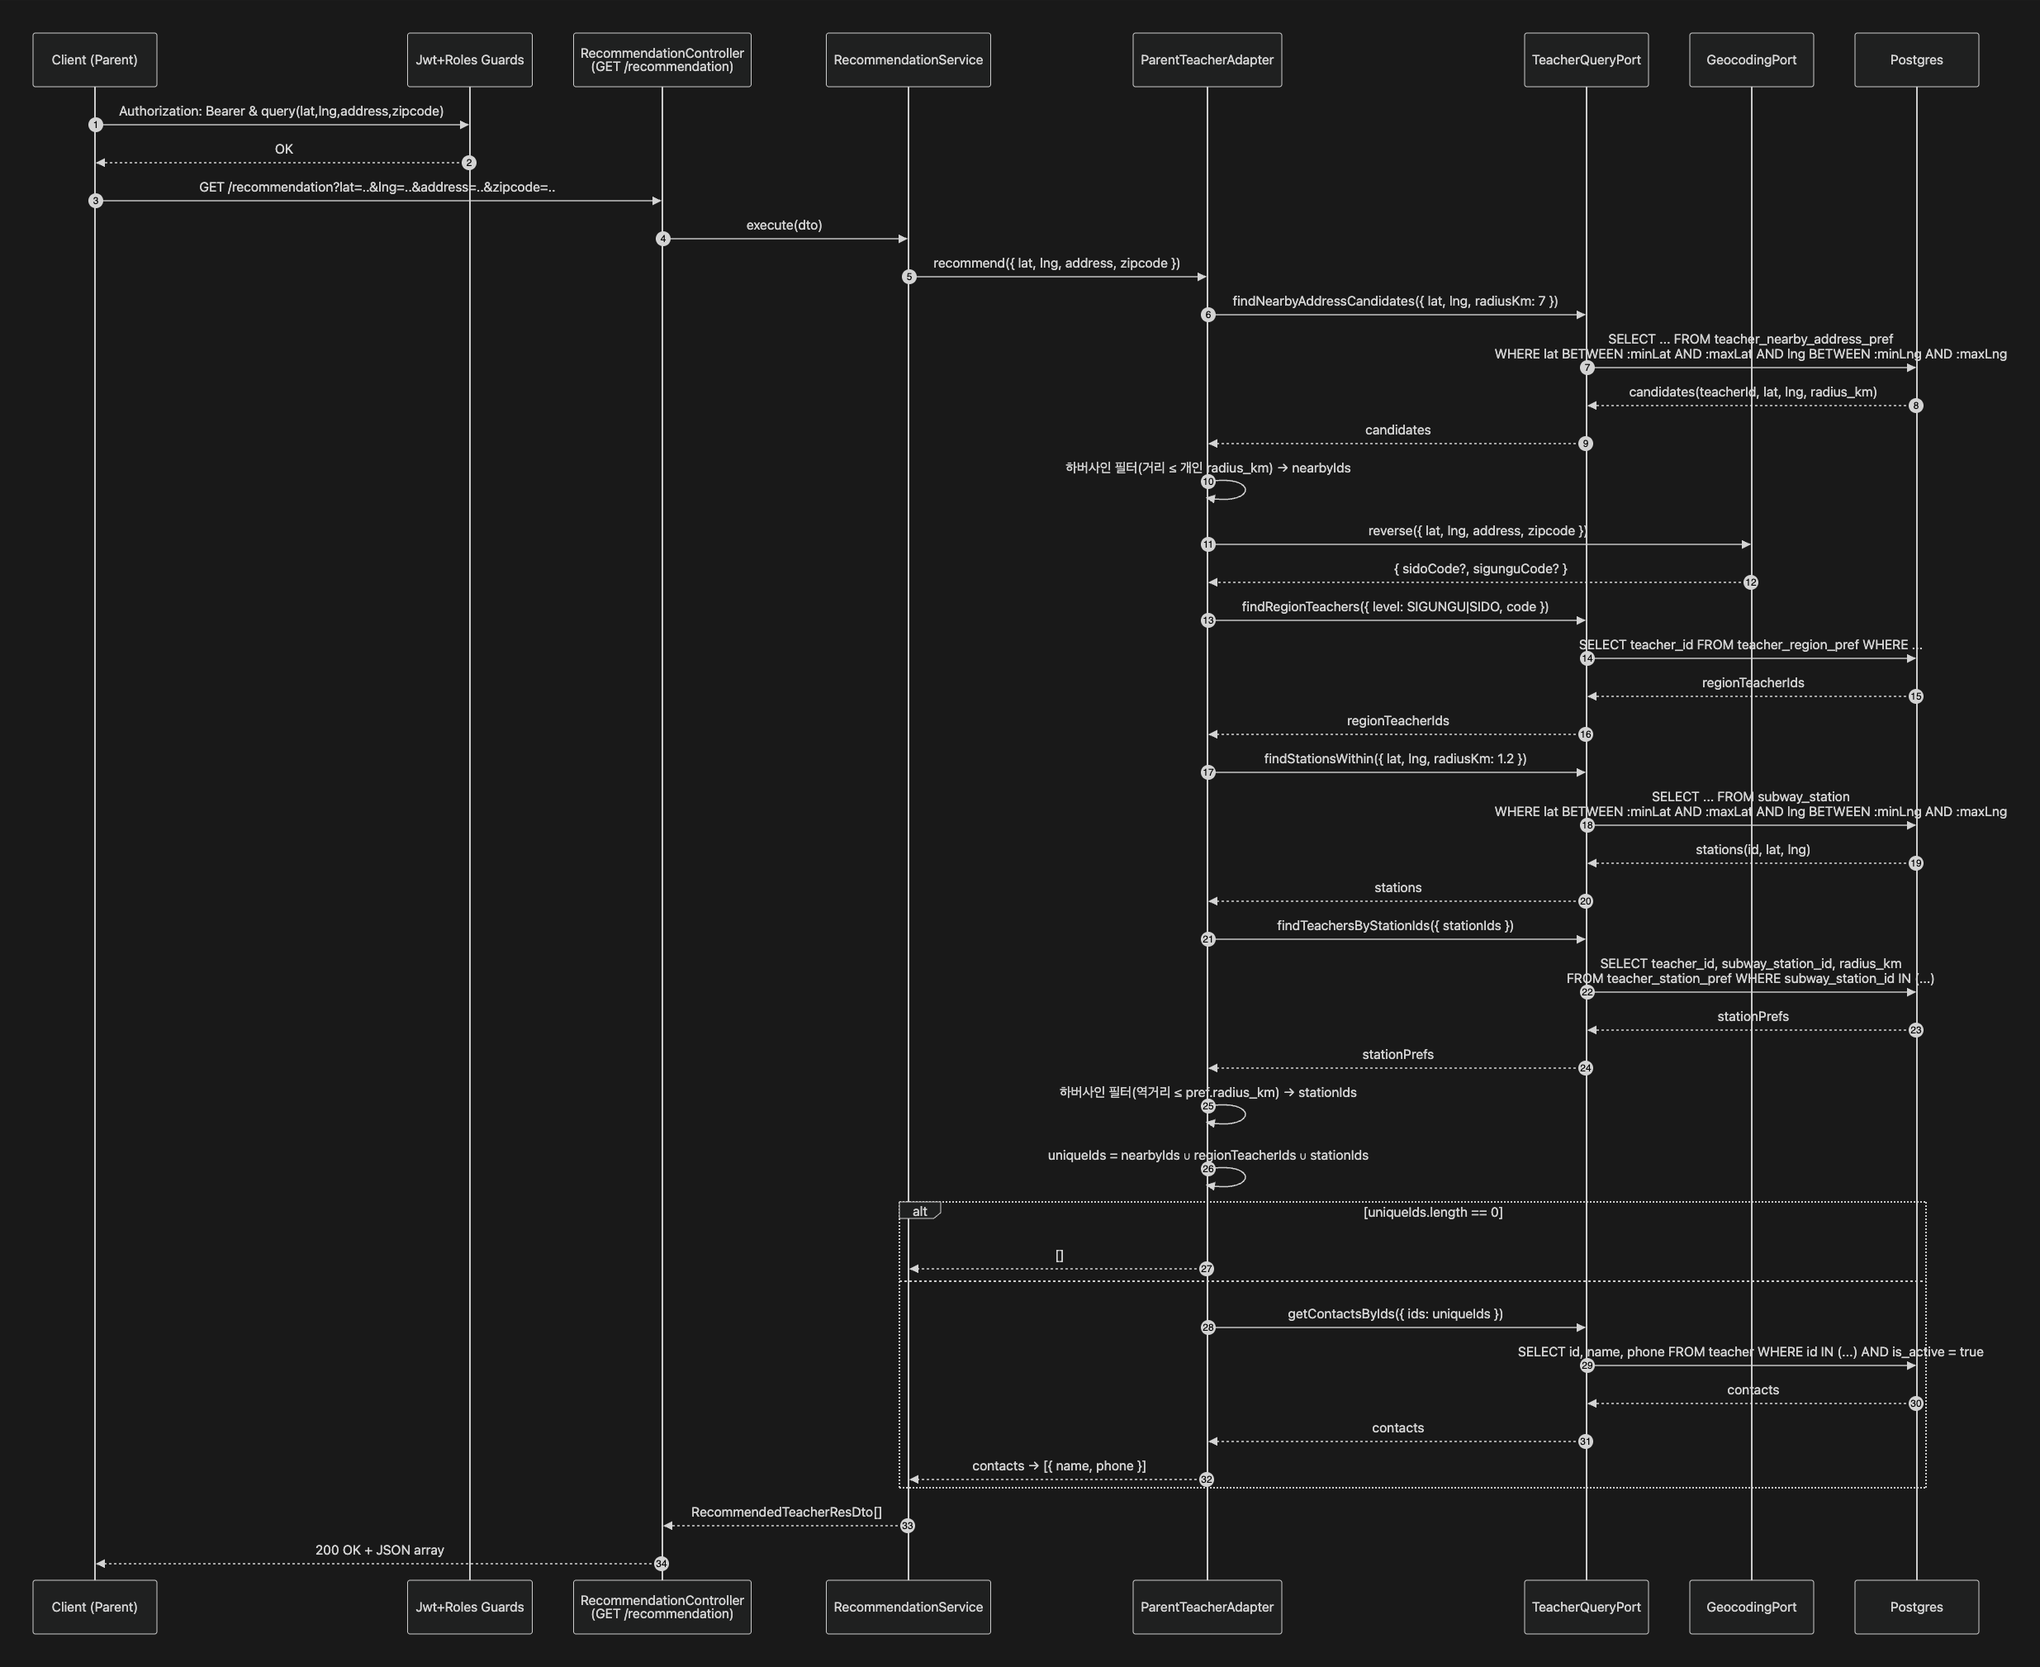
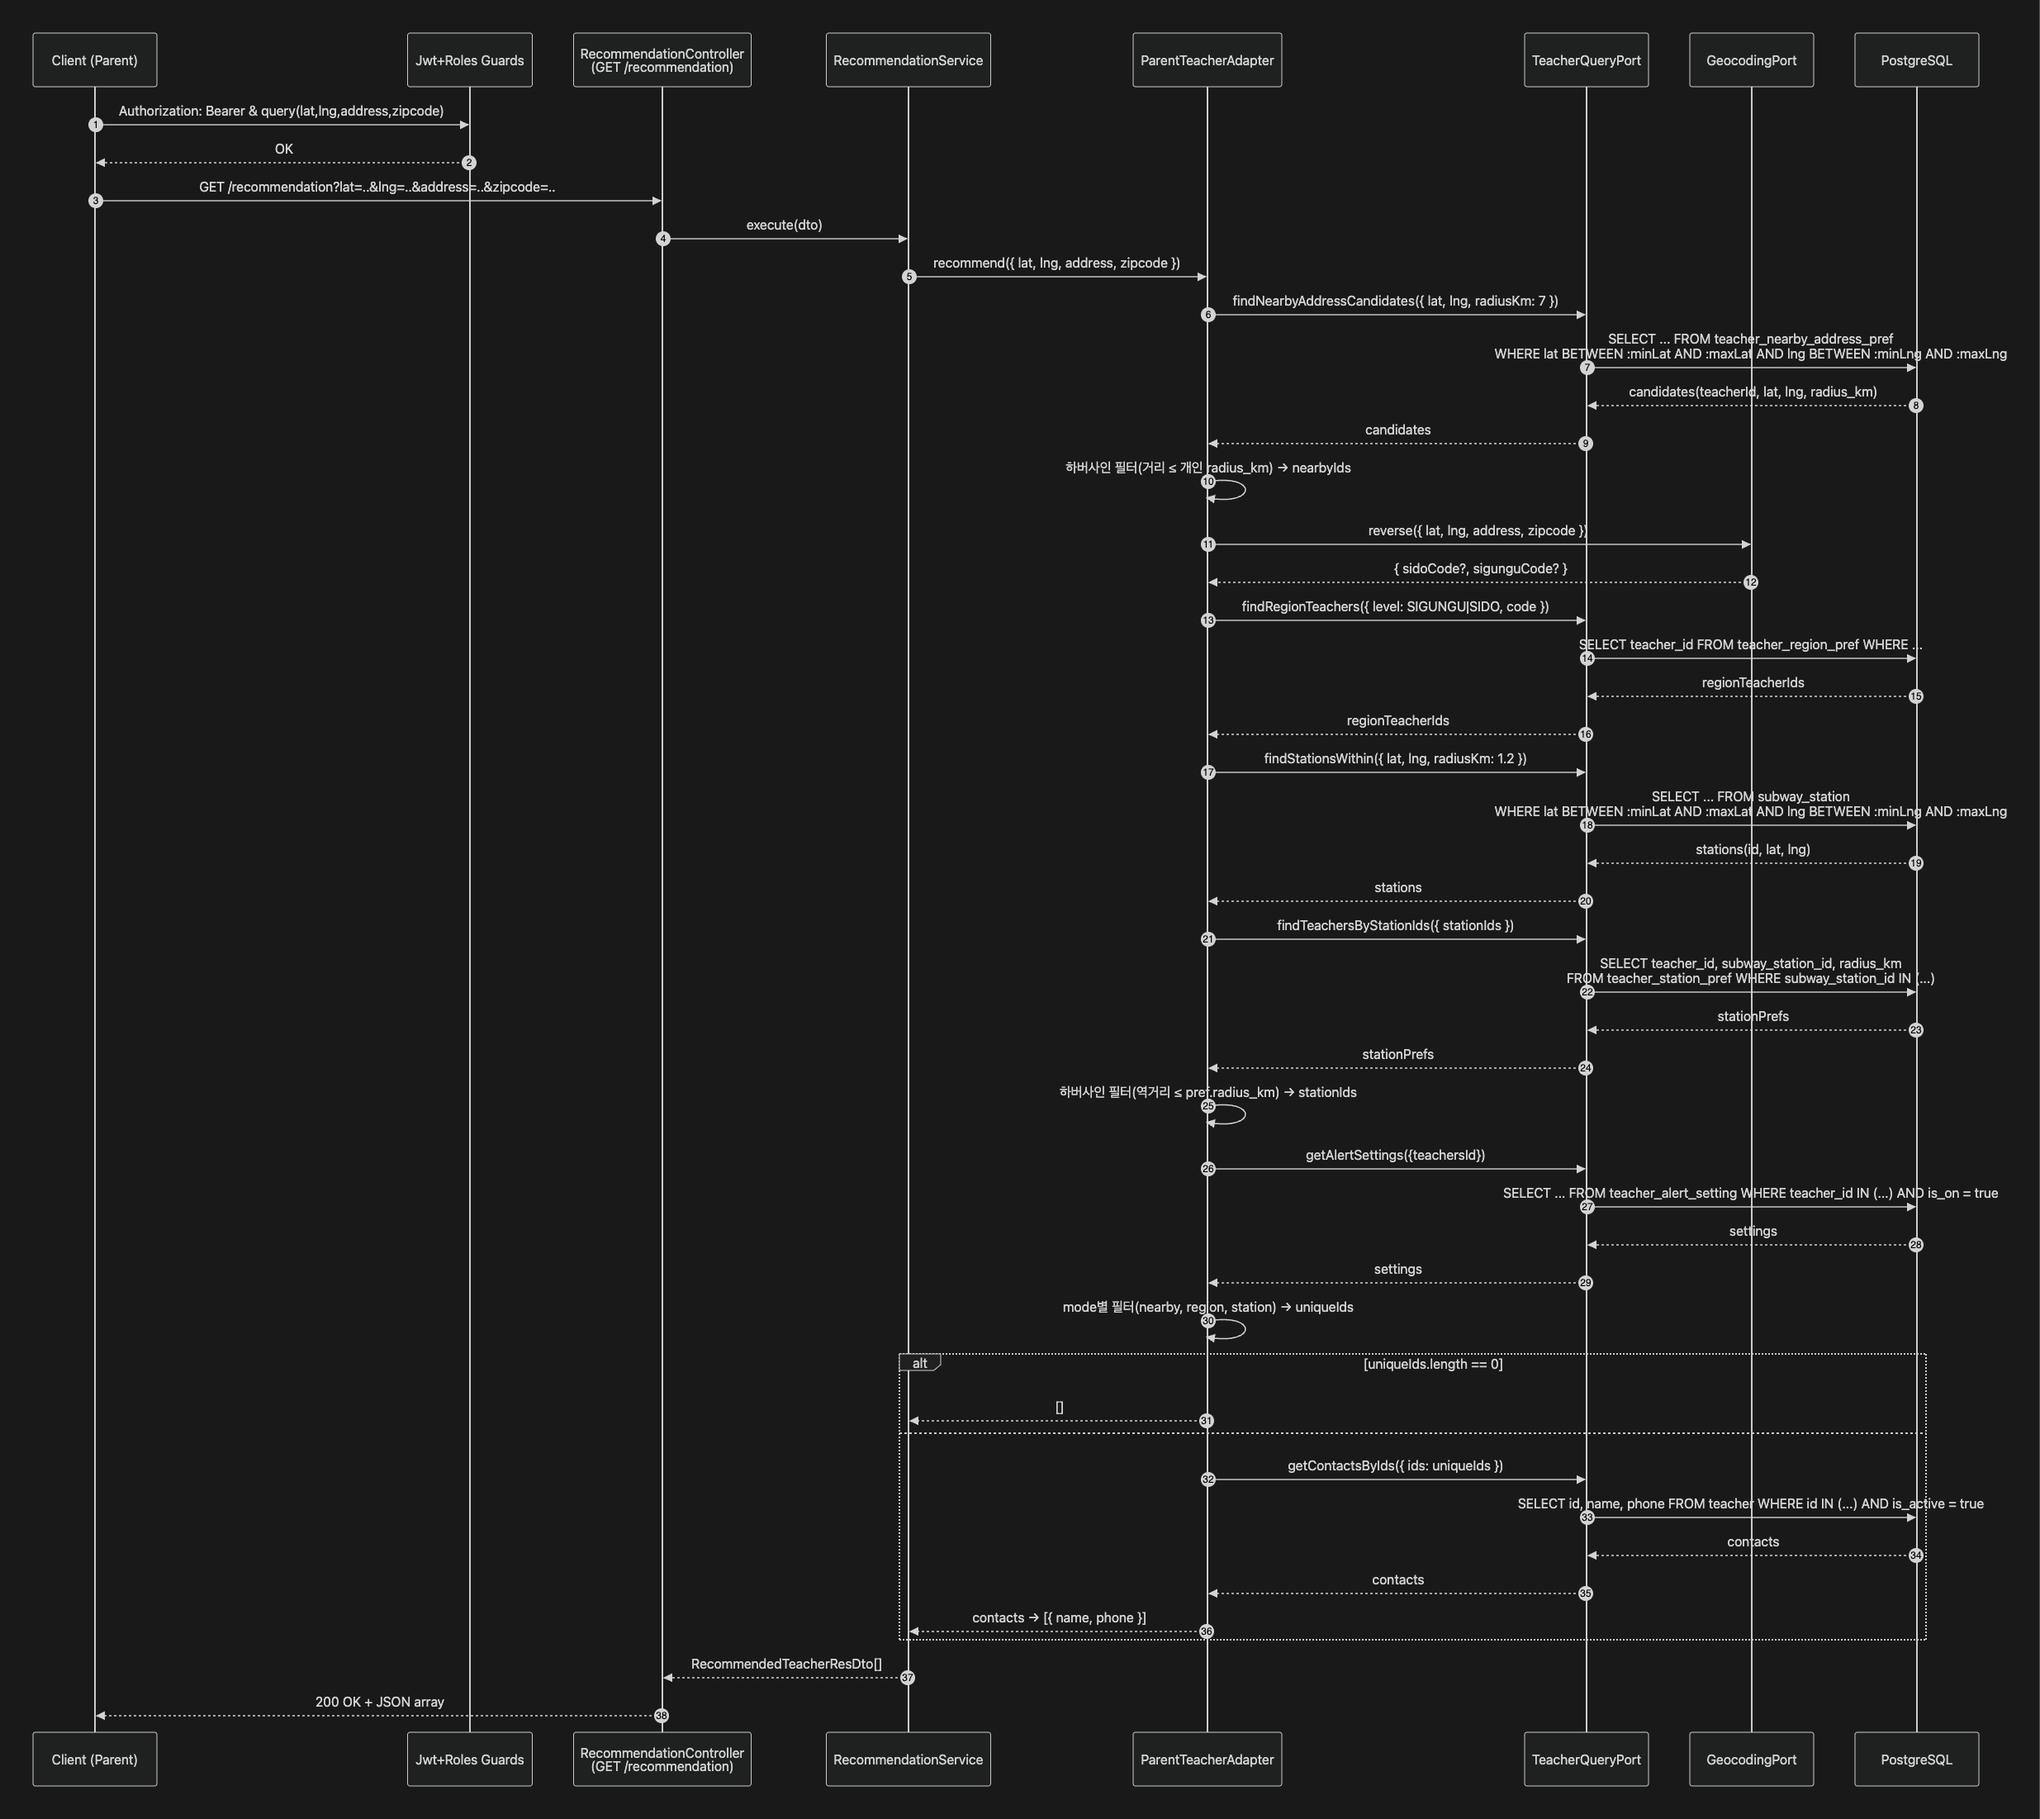
docs: readme.md 시퀀스 설명 이미지 수정 외
- spec 주석 삭제 및 adapter 주석 추가

diff --git a/src/parent/infrastructure/adpter/parent-teacher.adapter.ts b/src/parent/infrastructure/adpter/parent-teacher.adapter.ts
@@ -1,0 +1,115 @@
+import { Inject, Injectable } from '@nestjs/common';
+import { GEOCODING_PORT } from '@app/parent/application/query/port/gecording.port.token';
+import { GeocodingPort } from '@app/parent/application/query/port/geocoding.port';
+import { ParentTeacherPort } from '@app/parent/application/query/port/parant-teacher.port';
+import {
+  RecommendByLocationQuery,
+  TeacherContactView,
+} from '@app/parent/application/query/port/parent-teacher.port.type';
+import { haversineKm } from '@app/shared/utils/geo.util';
+import { TeacherQueryPort } from '@app/teacher/application/query/port/teacher-query.port';
+import { TEACHER_QUERY_PORT } from '@app/teacher/application/query/port/teacher-query.port.token';
+import { TEACHER_ALERT_MODE } from '@app/teacher/domain/enums/teacher-alert.type';
+
+@Injectable()
+export class ParentTeacherAdapter implements ParentTeacherPort {
+  constructor(
+    @Inject(TEACHER_QUERY_PORT) private readonly teacherPort: TeacherQueryPort,
+    @Inject(GEOCODING_PORT) private readonly geocoding: GeocodingPort,
+  ) {}
+
+  public async recommend(
+    q: RecommendByLocationQuery,
+  ): Promise<TeacherContactView[]> {
+    const { lat, lng, address, zipcode } = q;
+
+    // 인근 5km 반경(1차 필터 -> 2차 정밀)
+    const nearby = await this.teacherPort.findNearbyAddressCandidates({
+      lat,
+      lng,
+      radiusKm: 7,
+    });
+
+    const nearbyTeacherIds = nearby
+      .filter((p) => haversineKm(lat, lng, p.lat, p.lng) <= p.radiusKm)
+      .map((p) => p.teacherId);
+
+    // 지역 내
+    const { sidoCode, sigunguCode } = await this.geocoding.reverse({
+      lat,
+      lng,
+      address,
+      zipcode,
+    });
+
+    let regions: { teacherId: string }[] = [];
+
+    if (sigunguCode) {
+      regions = await this.teacherPort.findRegionTeachers({
+        level: 'SIGUNGU',
+        sigunguCode: sigunguCode,
+      });
+    } else if (sidoCode) {
+      regions = await this.teacherPort.findRegionTeachers({
+        level: 'SIDO',
+        sidoCode: sidoCode,
+      });
+    }
+
+    const regionTeacherIds = regions.map((r) => r.teacherId);
+
+    // 지하철역 1km 반경(1차 필터 -> 2차 정밀)
+    const stations = await this.teacherPort.findStationsWithin({
+      lat,
+      lng,
+      radiusKm: 1.2,
+    });
+
+    const teachersAroundStation =
+      await this.teacherPort.findTeachersByStationIds({
+        stationIds: stations.map((s) => s.id),
+      });
+
+    const stationTeacherIds = teachersAroundStation
+      .filter((p) => {
+        const st = stations.find((s) => s.id == p.stationId);
+
+        return st ? haversineKm(lat, lng, st.lat, st.lng) <= p.radiusKm : false;
+      })
+      .map((p) => p.teacherId);
+
+    const candidateIds = Array.from(
+      new Set([...nearbyTeacherIds, ...regionTeacherIds, ...stationTeacherIds]),
+    );
+
+    if (!candidateIds.length) return [];
+
+    // NOTE: 데이터양과 응답시간을 추적하여 추후 query level(join)로 변경 가능
+    // 알림을 원하는 선생님의 정보만을 전달
+    const settings = await this.teacherPort.getAlertSettings({
+      teacherIds: candidateIds,
+    });
+
+    const modeMap = new Map((settings ?? []).map((s) => [s.teacherId, s.mode]));
+
+    const uniqueIds = new Set<string>([
+      ...nearbyTeacherIds.filter(
+        (id) => modeMap.get(id) === TEACHER_ALERT_MODE.NEARBY,
+      ),
+      ...regionTeacherIds.filter(
+        (id) => modeMap.get(id) === TEACHER_ALERT_MODE.REGION,
+      ),
+      ...stationTeacherIds.filter(
+        (id) => modeMap.get(id) === TEACHER_ALERT_MODE.STATION,
+      ),
+    ]);
+
+    if (!uniqueIds.size) return [];
+
+    const contacts = await this.teacherPort.getContactsByIds({
+      ids: [...uniqueIds],
+    });
+
+    return contacts.map((c) => ({ name: c.name, phone: c.phone }));
+  }
+}
